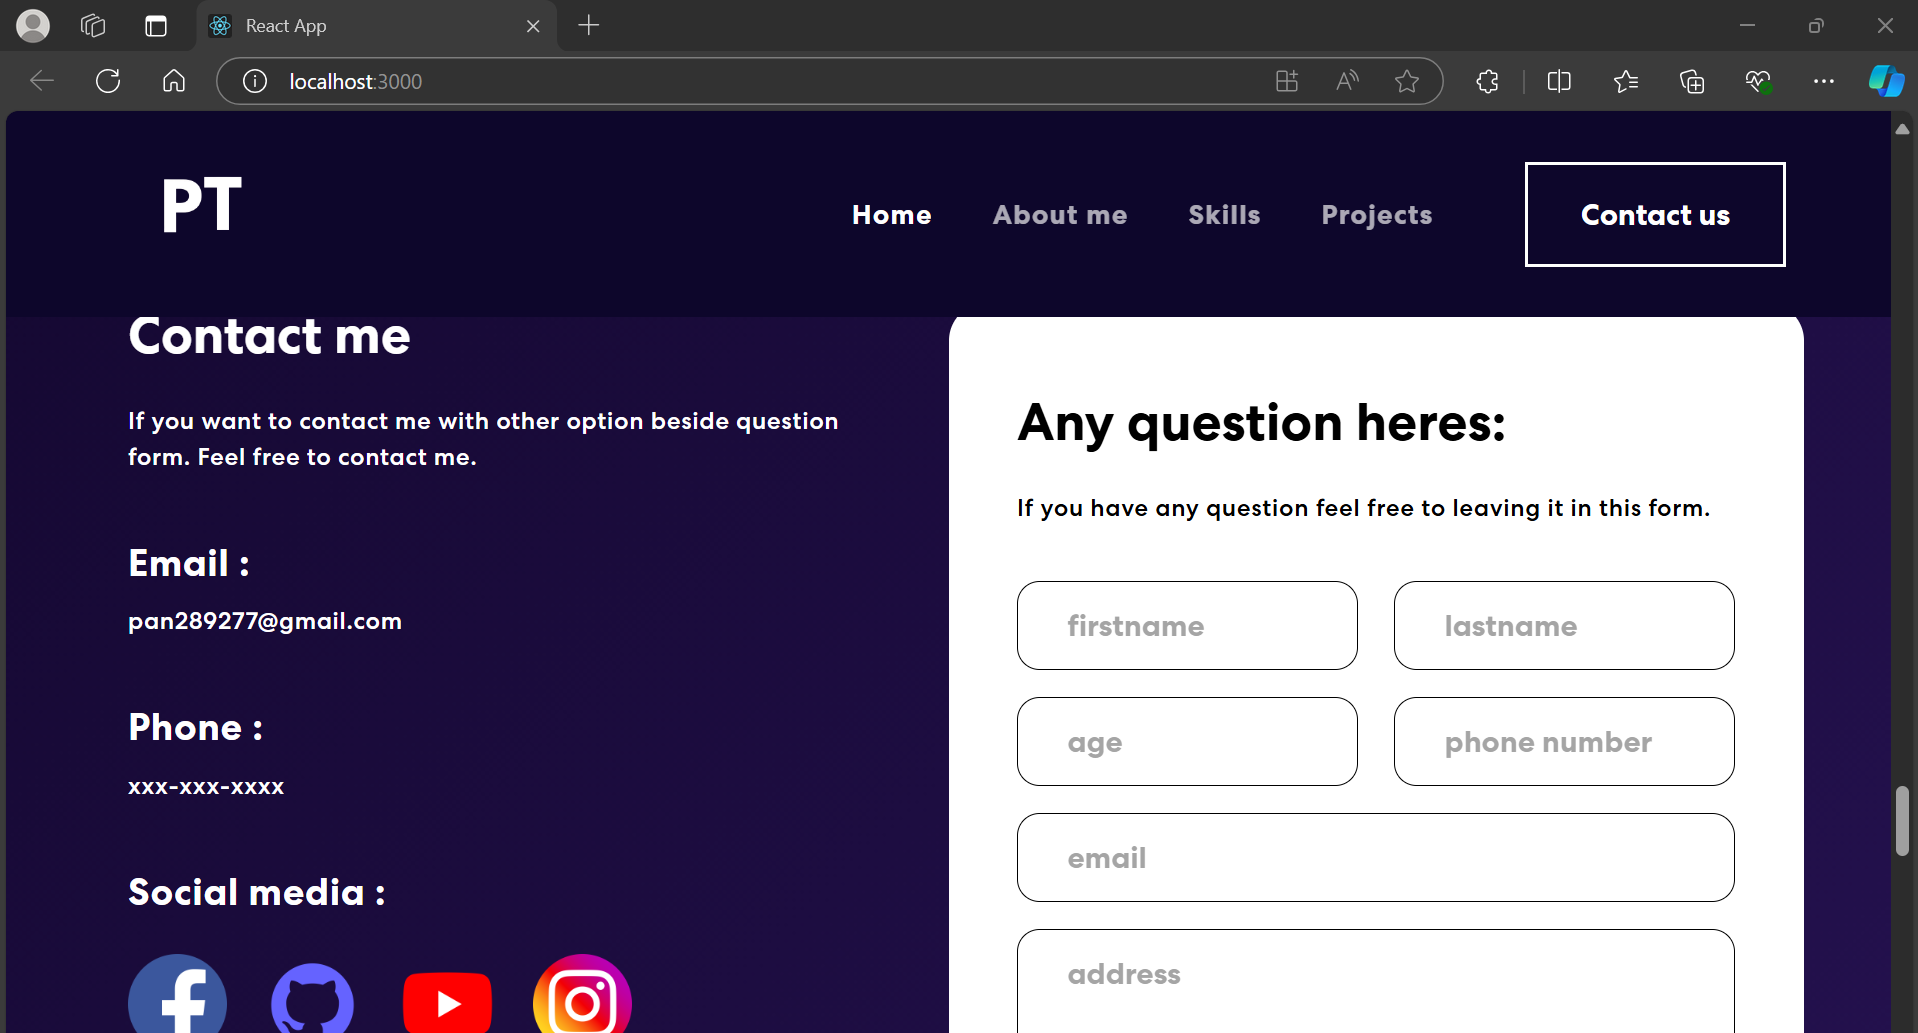
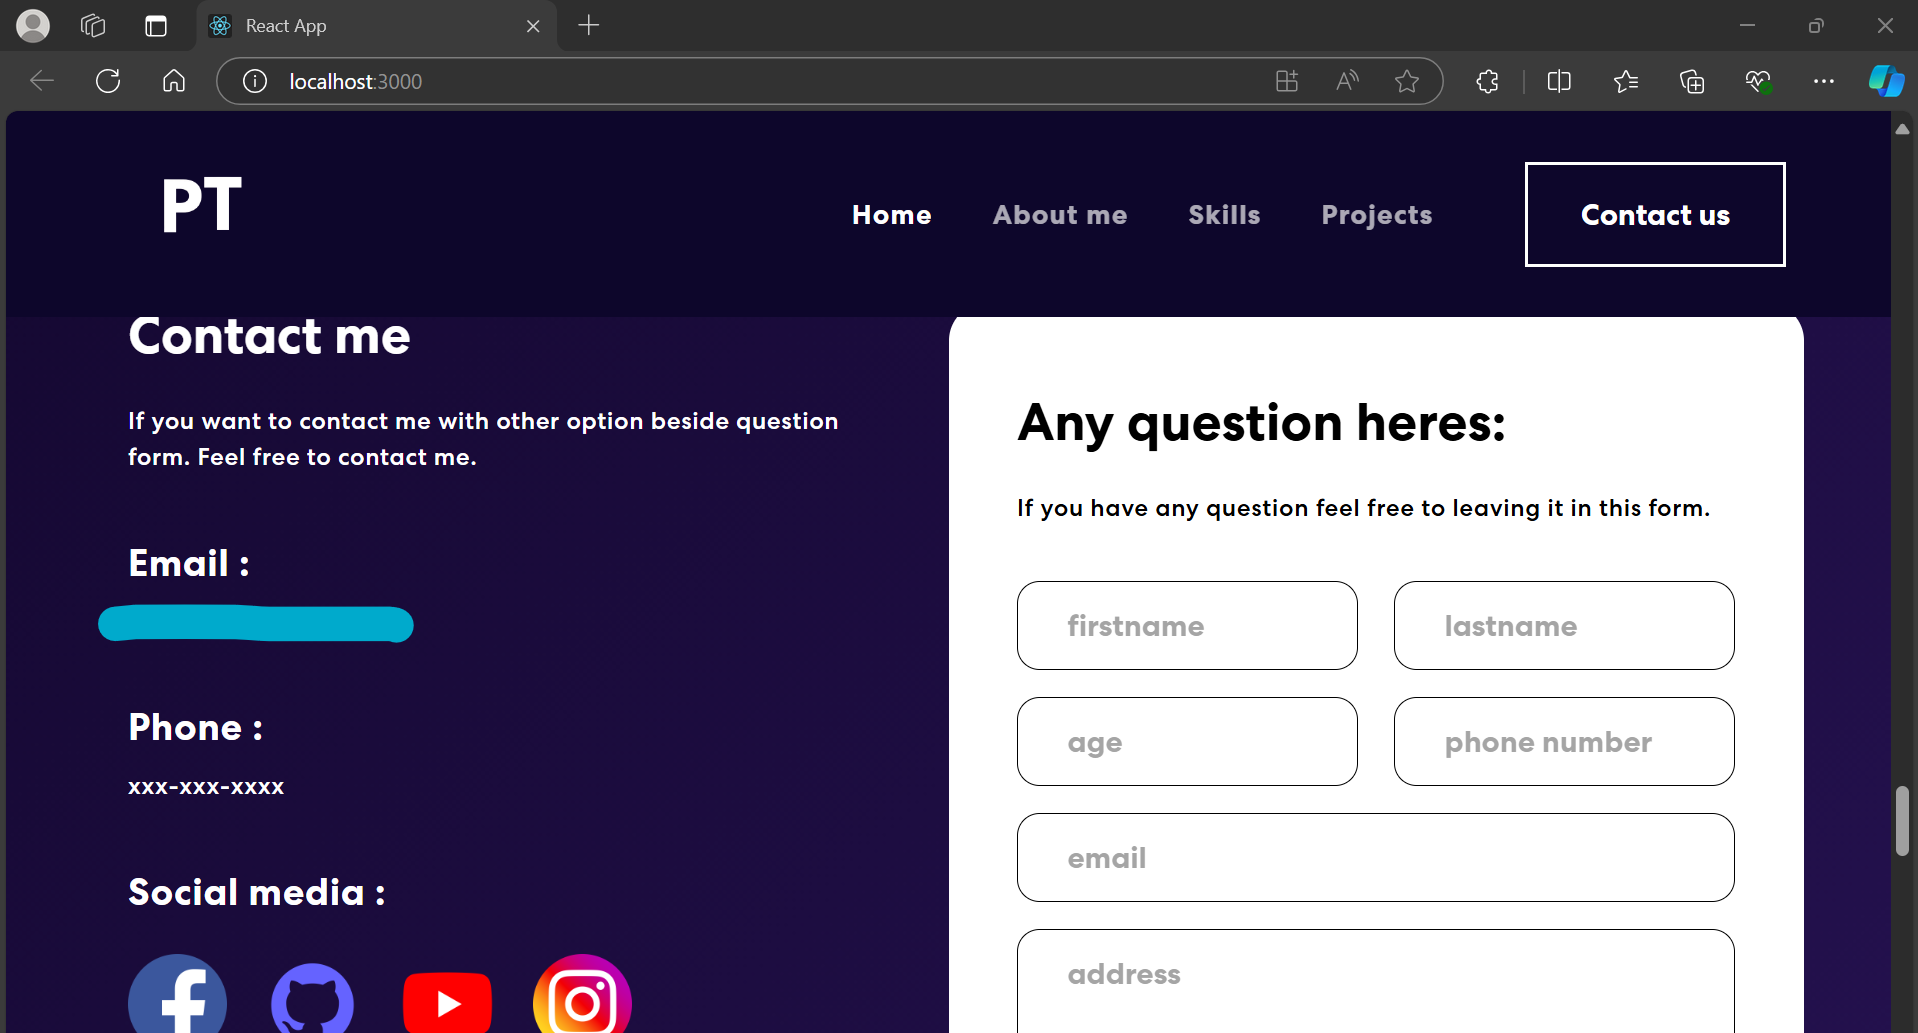
Update mailchimp form png to README

Changed region(s): [[0.0308, 0.5576, 0.2153, 0.6196]]

diff --git a/README.md b/README.md
@@ -38,6 +38,9 @@ Upon user filling out the `QuestionForm`,  response will be sent to user by send
 ![](./ui/public/simplified_question_form.png)
 
 ## `MailchimpForm`
+
+![](./ui/public/webpage-result/subscription.png)
+
 **Mailchimp** is a marketing platform that facilitates interaction, subscription and communications with clients.
 
 `MailchimpForm` provided subscription form that allow users to subscribe the project webpage. When users submit form data, The React Website sends a request to **Mailchimp website server** of registered account in **Mailchimp** to validate and store subscriber data in website.
